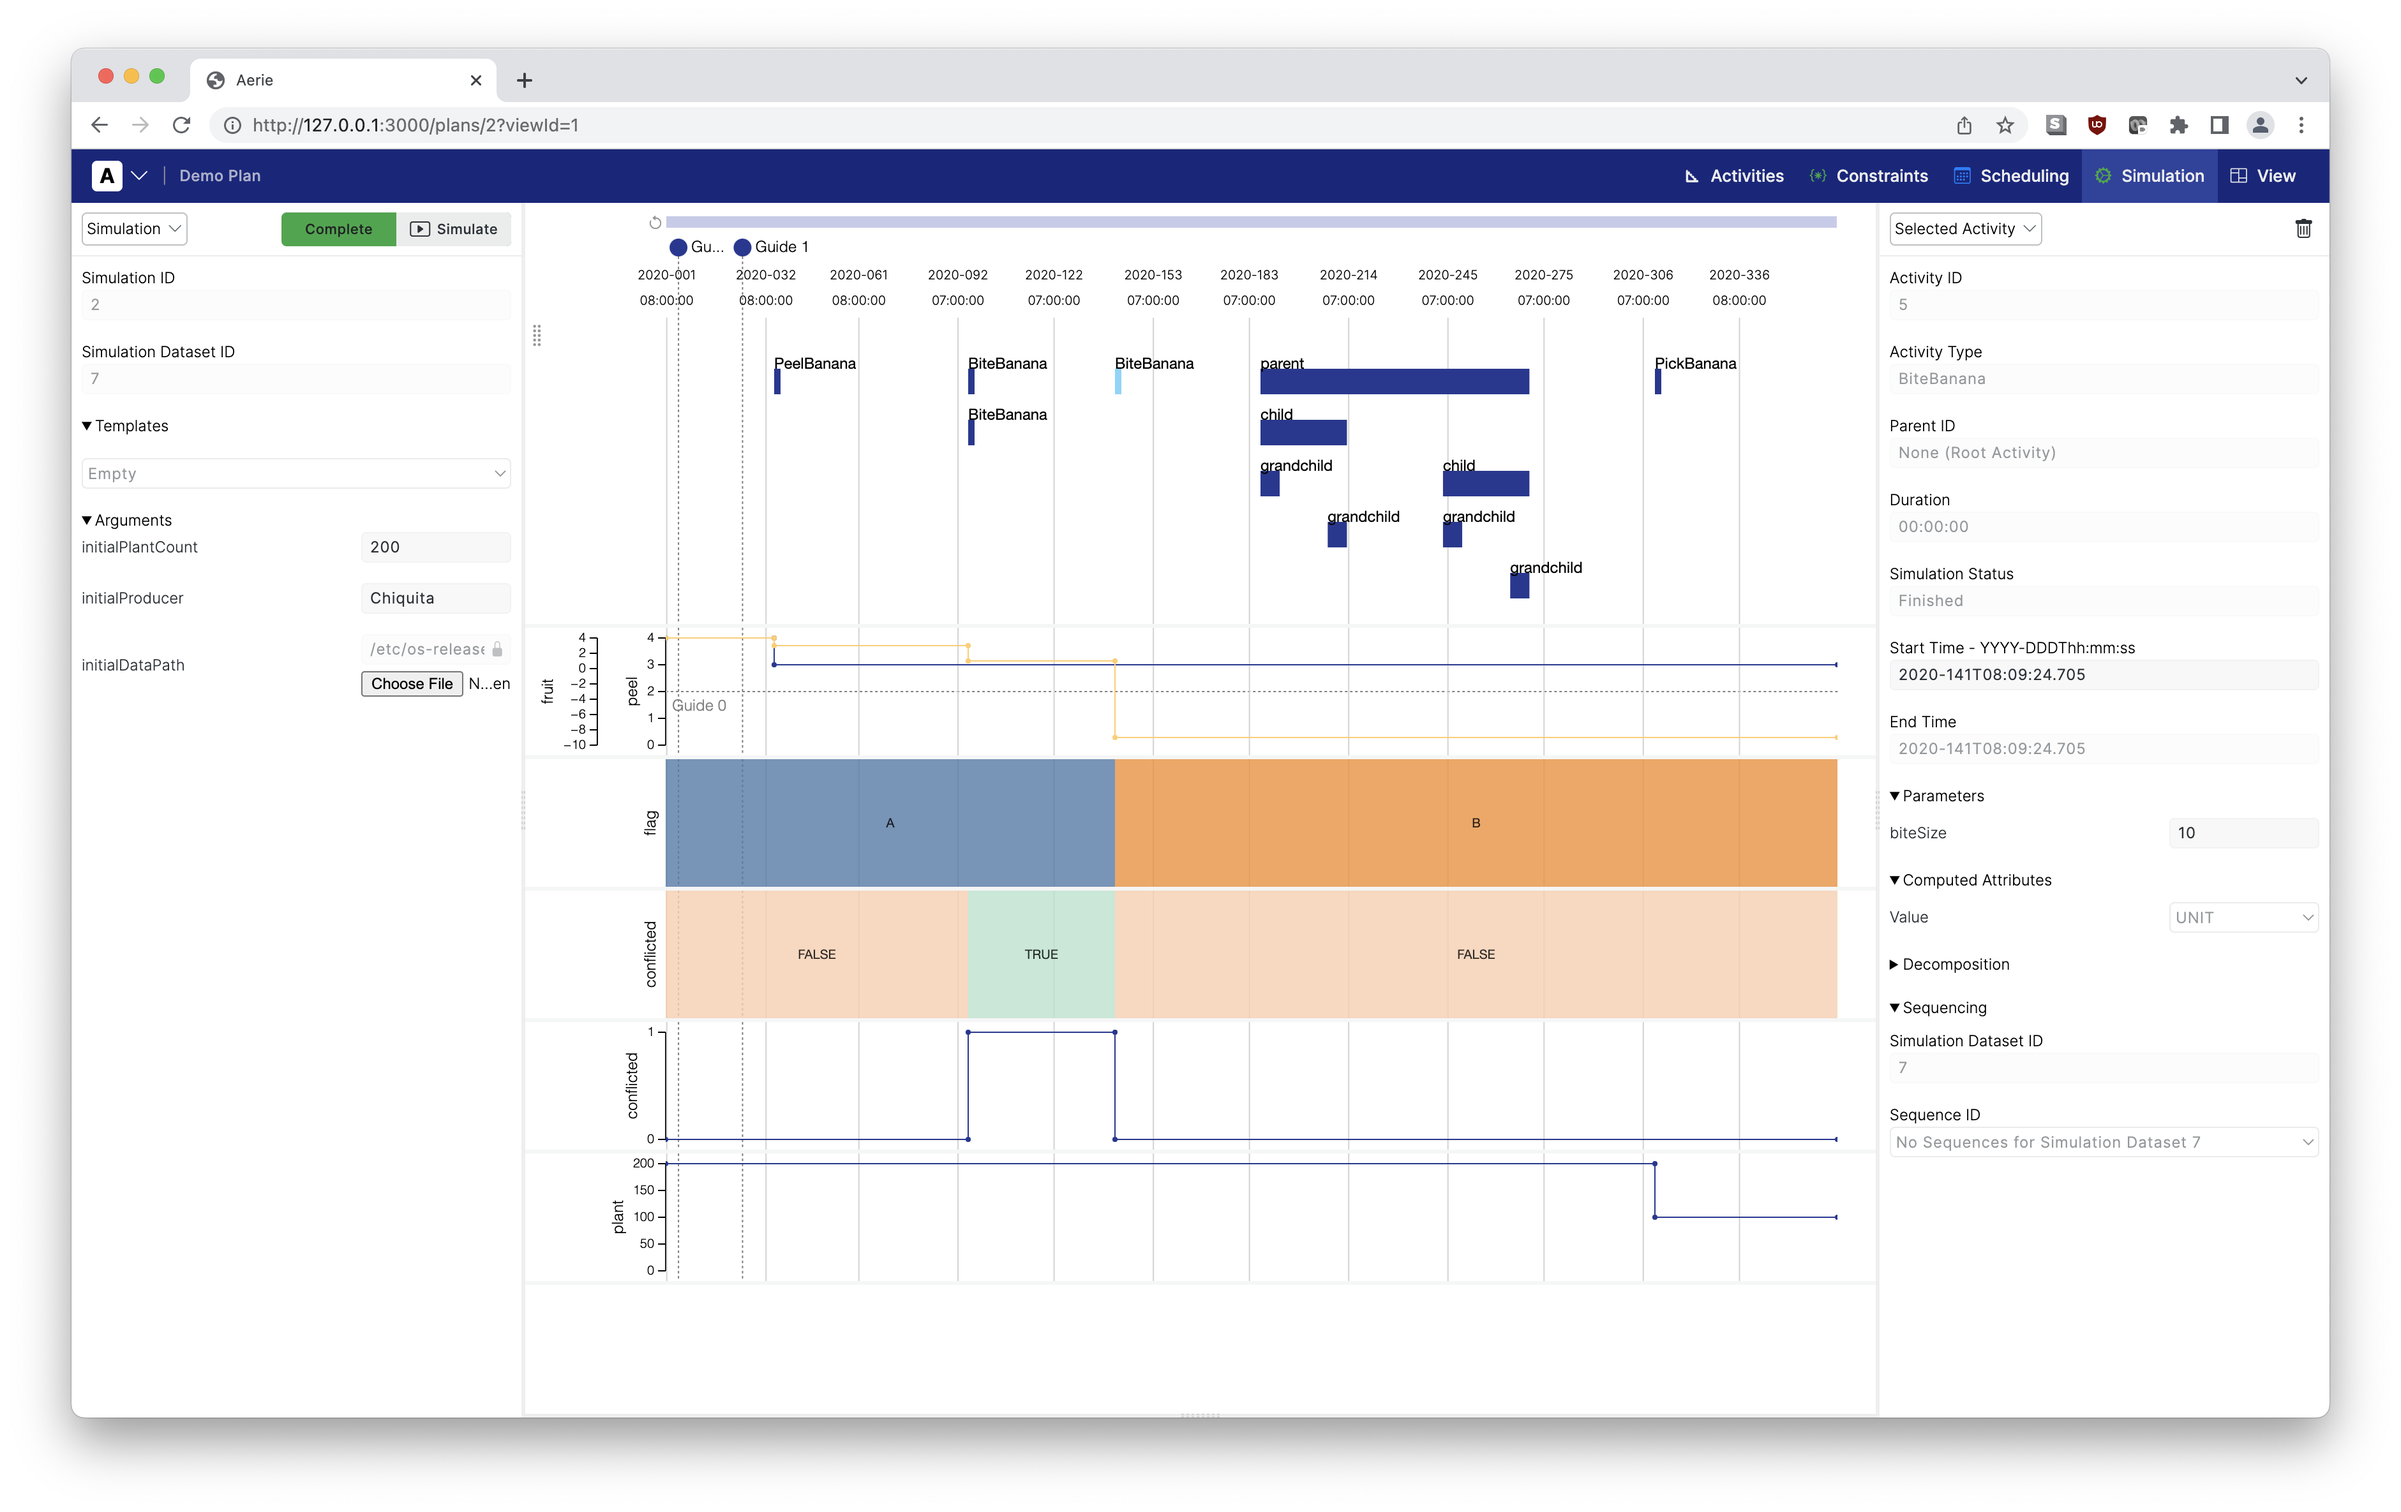
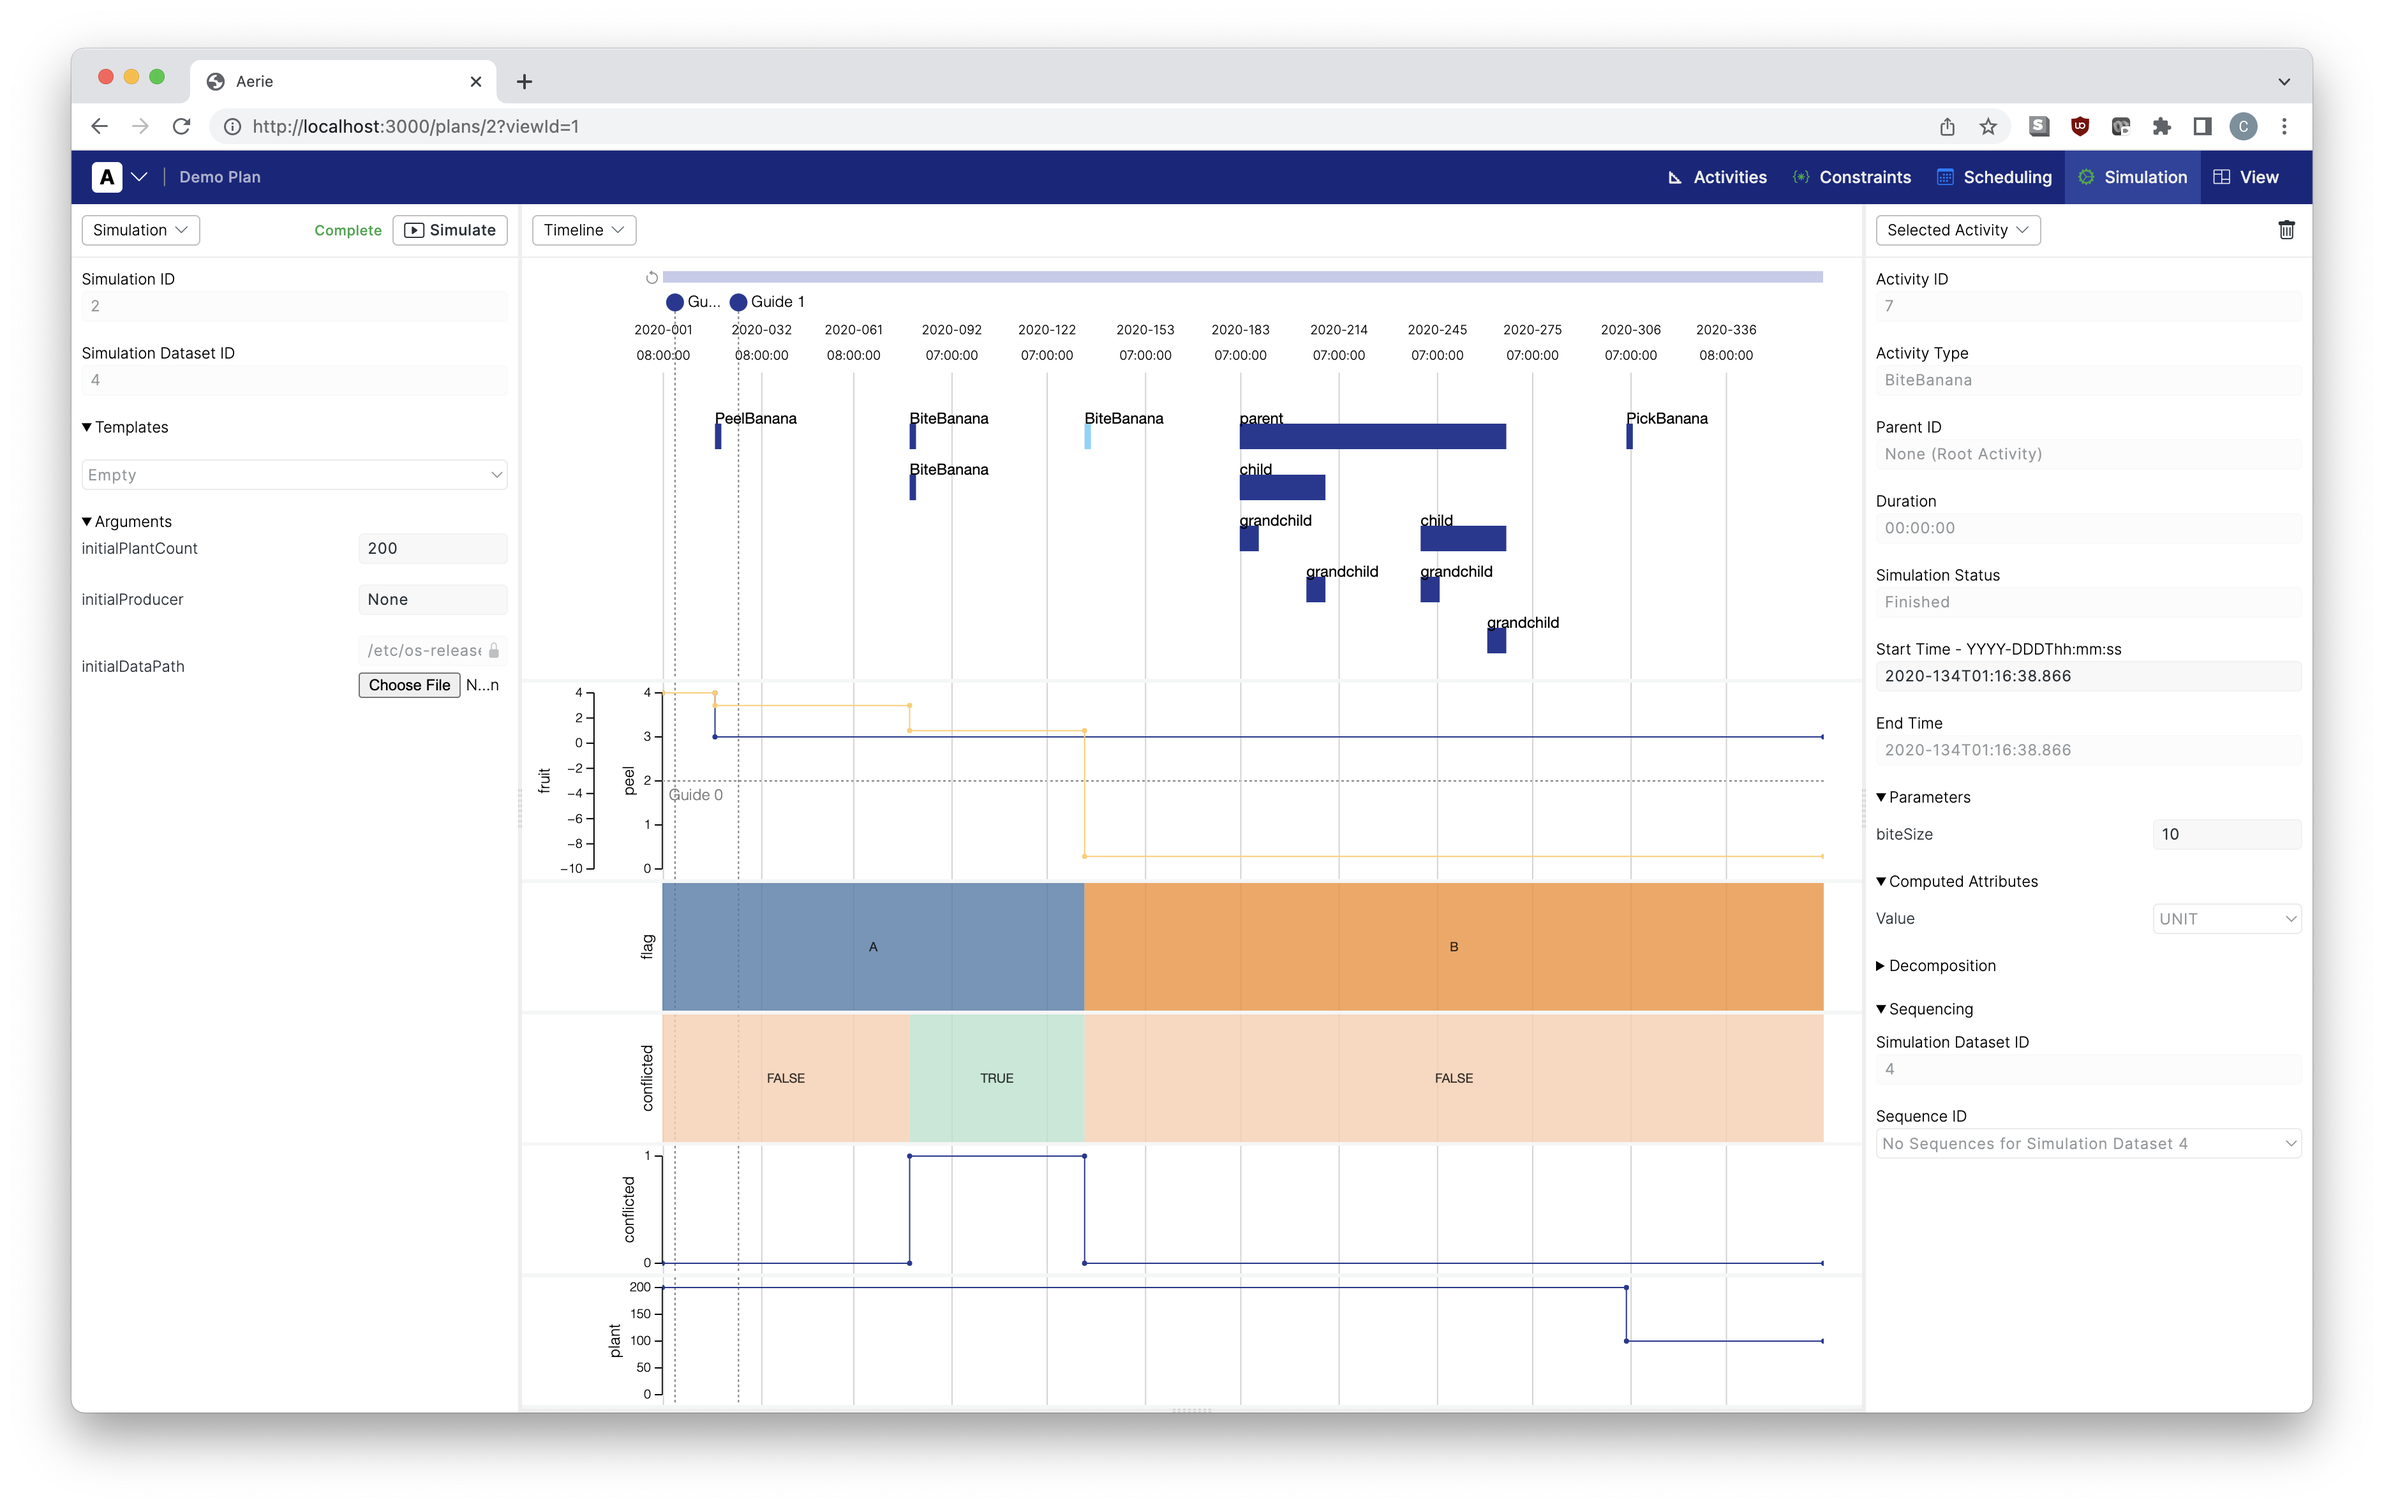
docs: update developer.md
- Remove misleading link
- Update wording
- Update README.md image

diff --git a/docs/DEVELOPER.md b/docs/DEVELOPER.md
@@ -53,7 +53,7 @@ Before you can run aerie-ui you must install and configure the following product
   cp ***REMOVED***.template ***REMOVED***
   ```
 
-  Fill out the [***REMOVED***](https://github.com/NASA-AMMOS/aerie/blob/develop/***REMOVED***.template) file with the following default environment:
+  Fill out the `***REMOVED***` file with the following default environment variables:
 
   ```sh
   AERIE_PASSWORD=aerie
